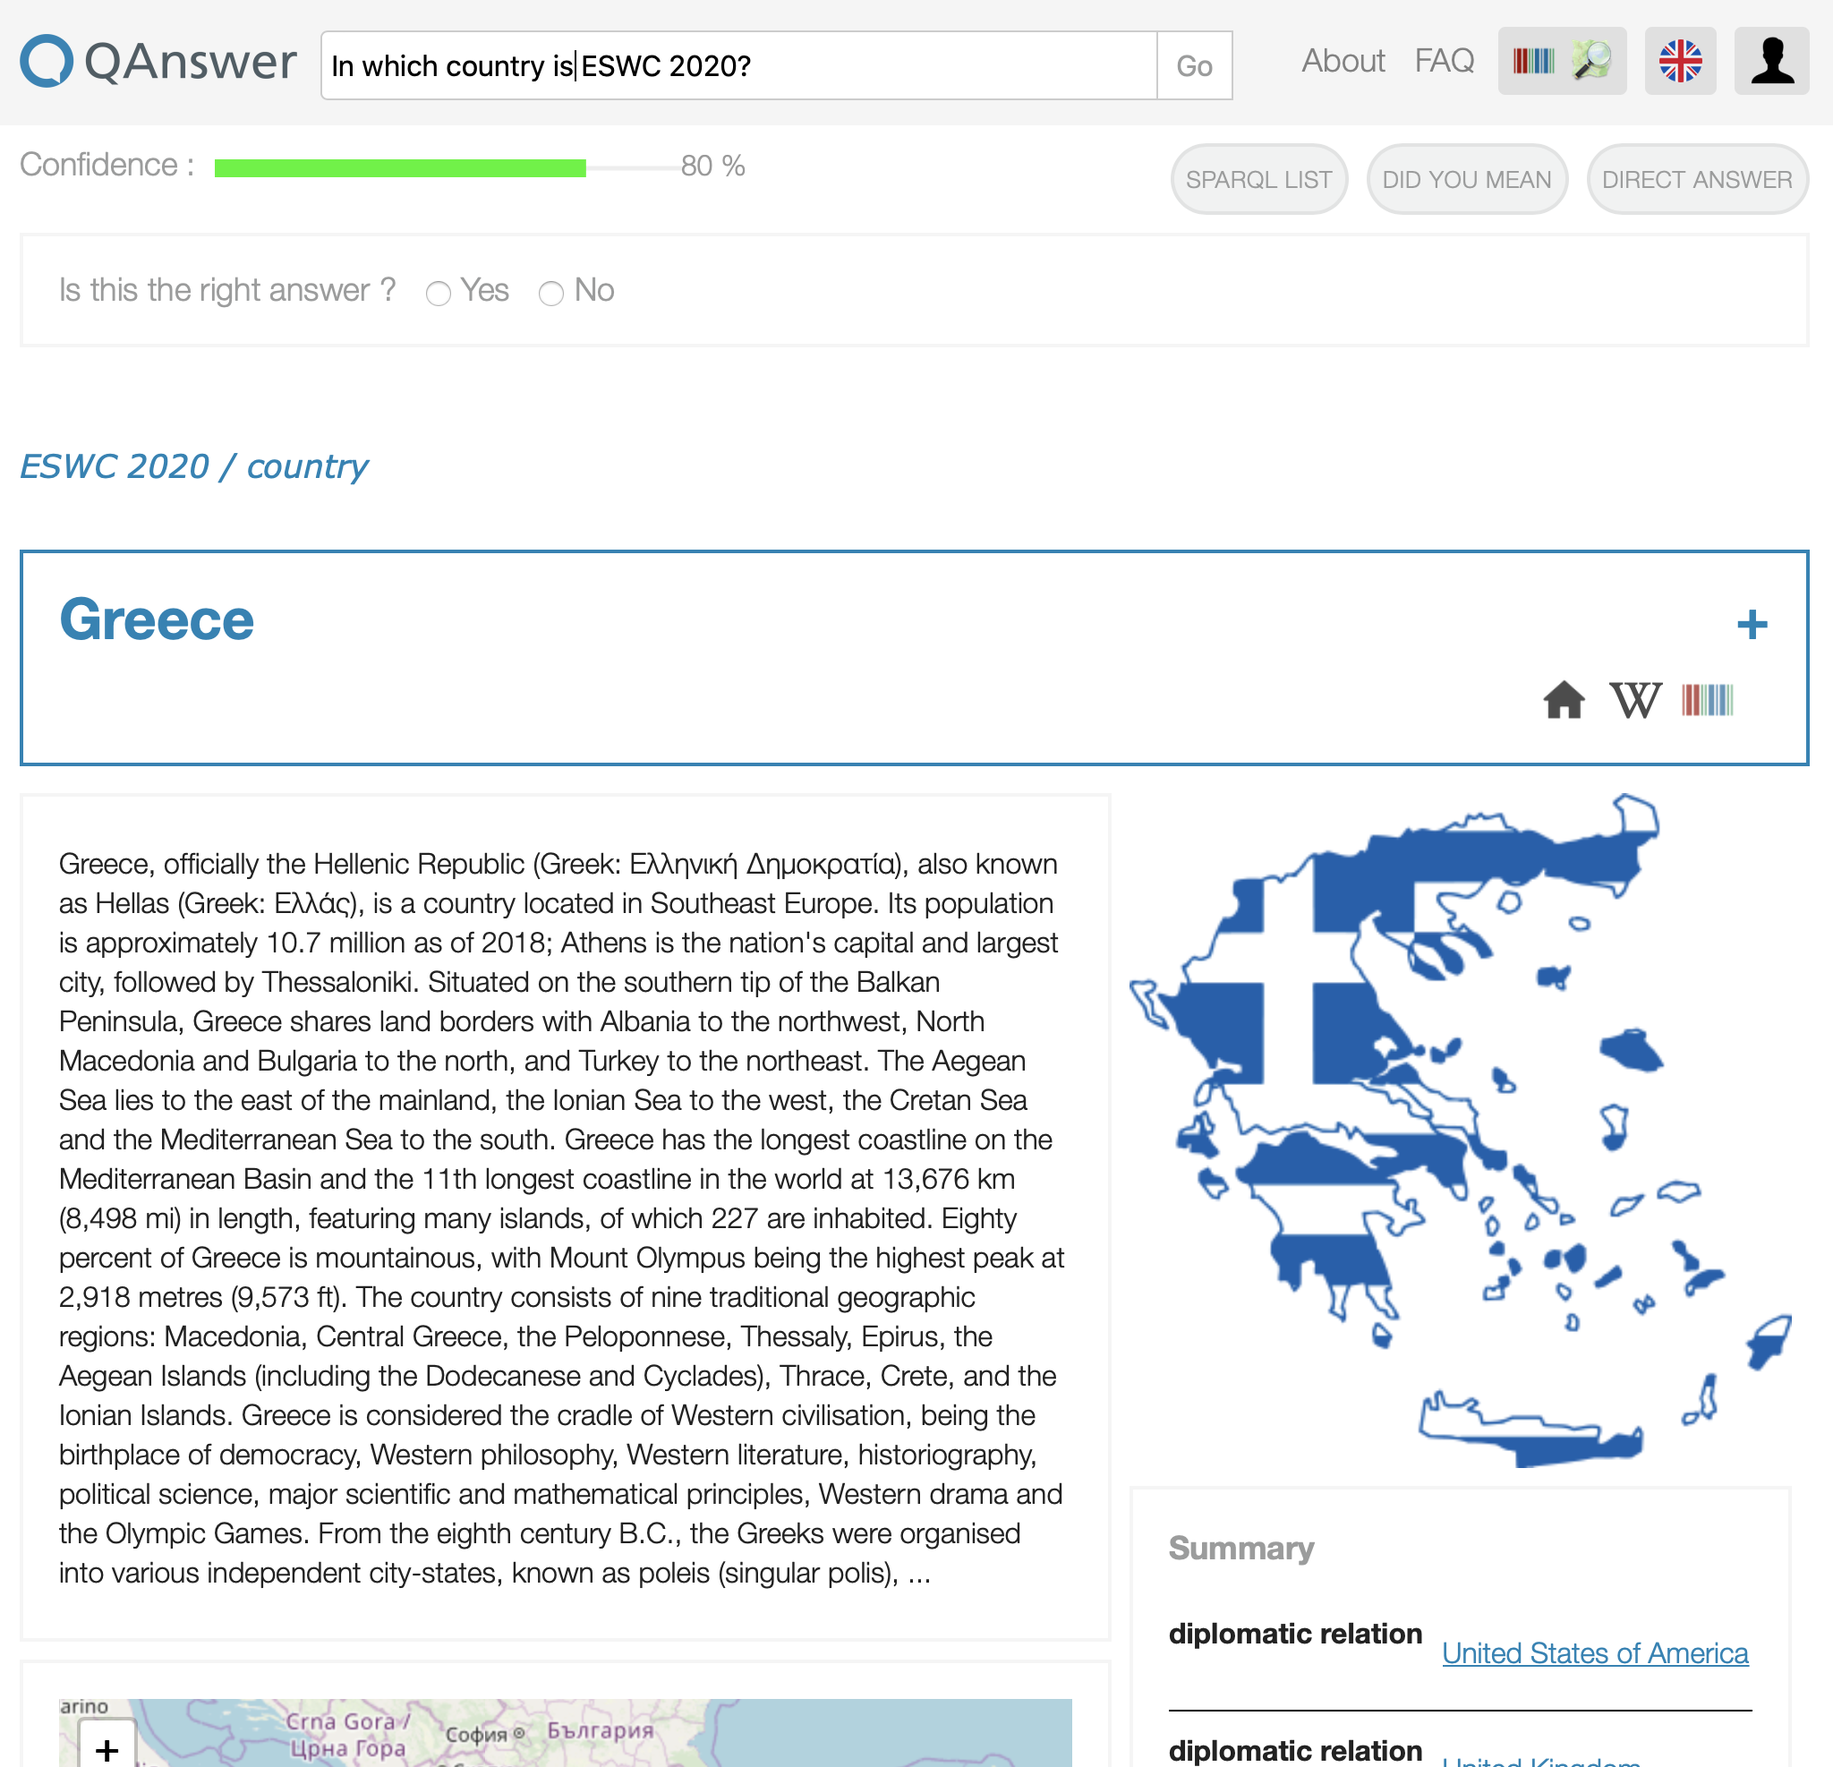
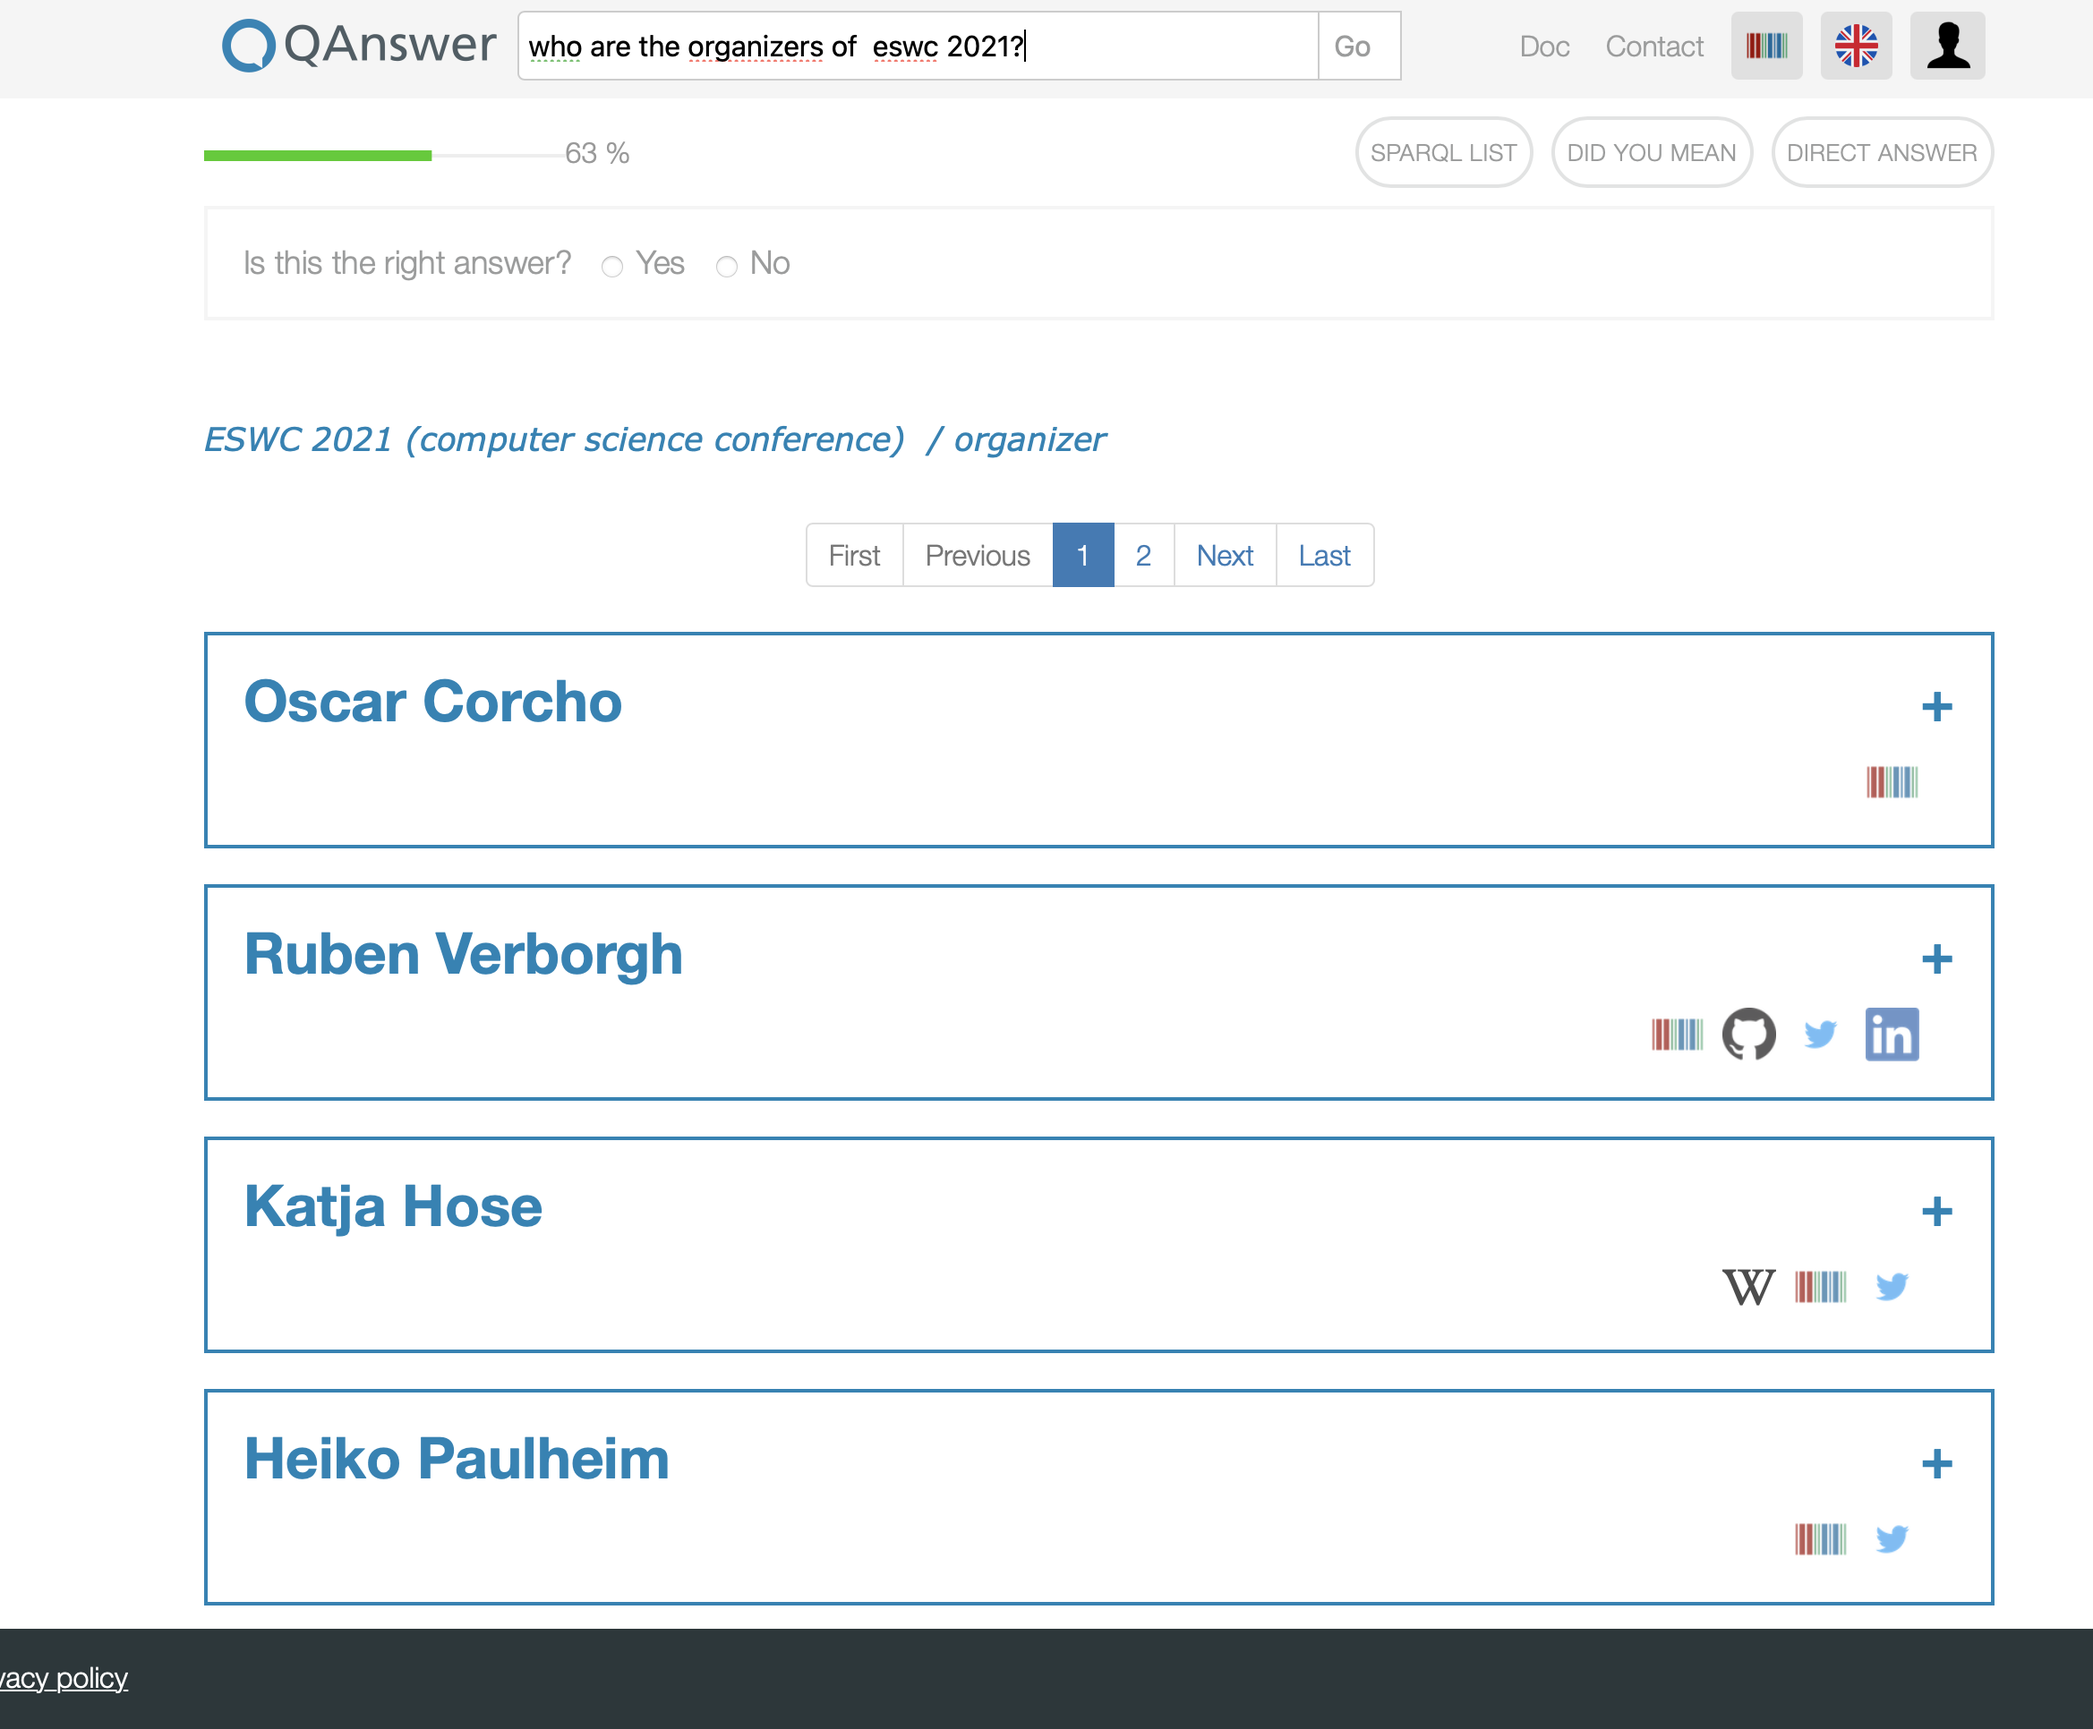
changing default question

diff --git a/website/pages/en/index.js b/website/pages/en/index.js
@@ -64,7 +64,7 @@ class HomeSplash extends React.Component {
                 <div className="inner">
                     <ProjectTitle siteConfig={siteConfig} />
                     <PromoSection>
-                        <Button href="https://qanswer-frontend.univ-st-etienne.fr/qa/full?query=In%20which%20country%20is%20ESWC%202020%3F&tags=%5B%5D&lang=en&kb=wikidata%2Copenstreetmap&user=open%2Copen">Try It Out</Button>
+                        <Button href="https://qanswer-frontend.univ-st-etienne.fr/qa/full?query=who%20are%20the%20organizers%20of%20%20eswc%202021%3F&tags=%5B%5D&lang=en&kb=wikidata&user=open">Try It Out</Button>
                         {/*<Button href={docUrl('doc0.html')}>Get started</Button>*/}
                     </PromoSection>
                 </div>
